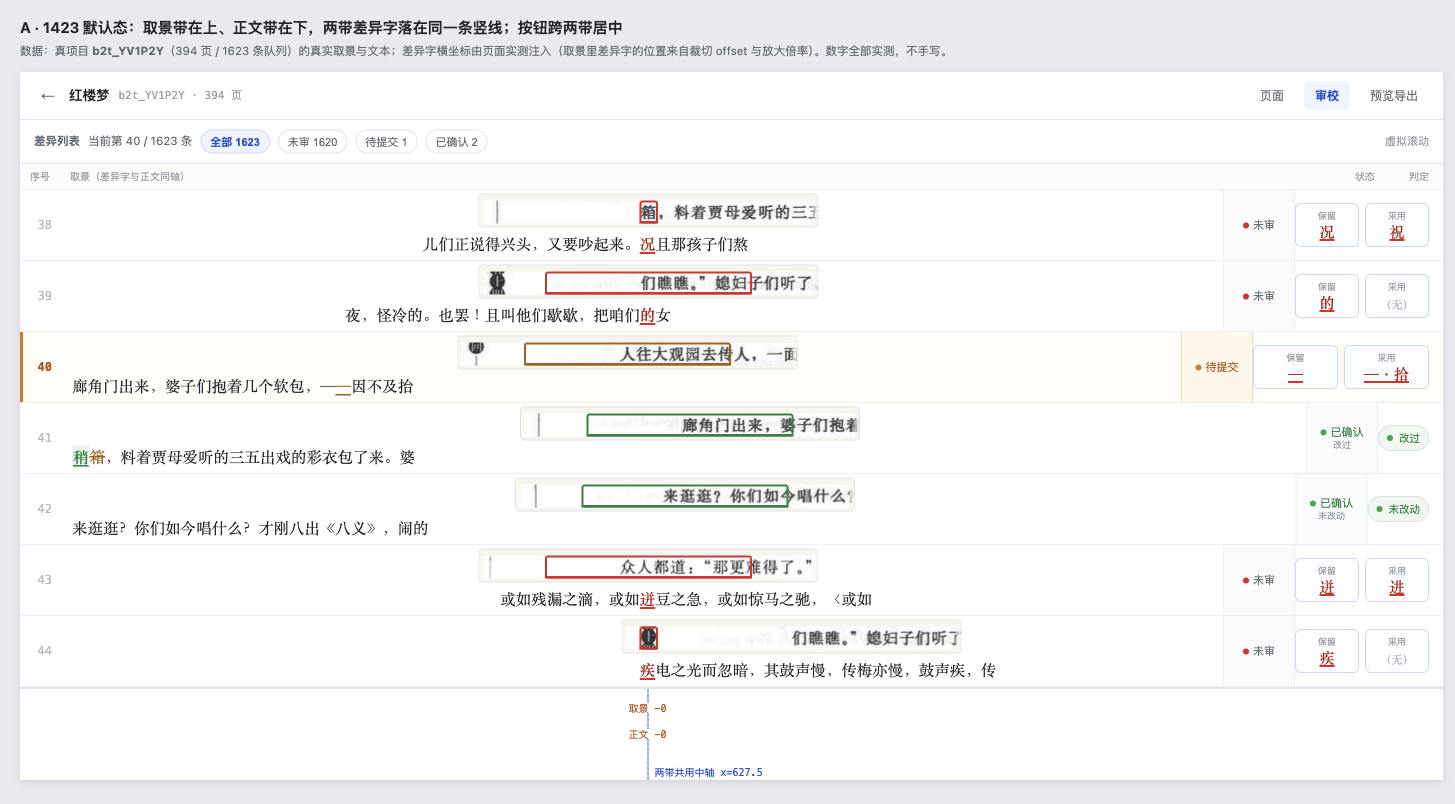
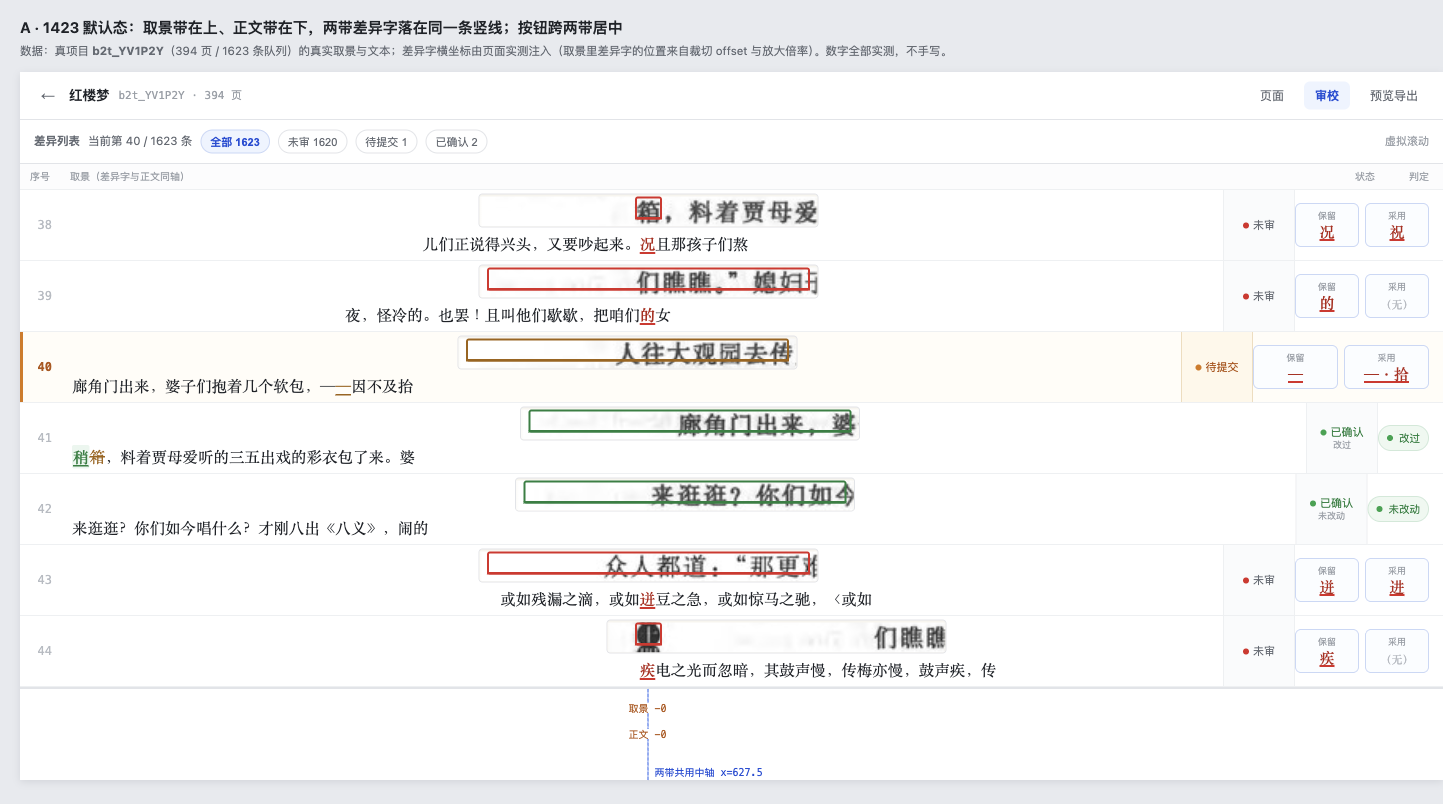
docs(ux): 取景字高改 22px（≥正文）、渐隐 7→3px、轴位写成实现契约；A/C/D 重出
- z = 22/源行高（0.786），取景字 22px 高于正文 15.5px；340 宽 15 字、628 档 10 字
- 渐隐 7px→3px，行首字不再被盖
- 实现契约置顶：--axis 默认 32%，shotLeft 走容器坐标、bgPosX 走源图坐标，半宽只扣一次
- §3.5 标注 E1/E2 为推算数、非 DOM 实测，实现以 ≤2px 为准
- A/C/D 重出：行高 71 / 106，两带中轴差 −1px

diff --git a/docs/ux/review-cat-stacked-mockup.html b/docs/ux/review-cat-stacked-mockup.html
@@ -35,7 +35,7 @@ h1{font-size:15px;margin:0 0 4px;font-weight:650}
 .row.cur .num{color:var(--warntext);font-weight:700}
 /* 取景 */
 .shot{position:relative;flex:none;border:1px solid var(--line);border-radius:4px;overflow:hidden;background:var(--paper)}
-.im{position:absolute;left:0;right:0;top:6px;height:23px;overflow:hidden}
+.im{position:absolute;left:0;right:0;top:2px;height:30px;overflow:hidden}
 .im .imgs{position:absolute;inset:0;background-repeat:no-repeat}
 .im .ln{position:absolute;height:0;border-bottom:2.5px solid var(--ul)}
 .im .cv{position:absolute;width:2px;background:var(--ul)}
@@ -44,9 +44,9 @@ h1{font-size:15px;margin:0 0 4px;font-weight:650}
 .im .blk.un{outline-color:#dc2626}.im .blk.un::after{border-color:var(--ul)}
 .im .blk.ed{outline-color:#a16207}.im .blk.ed::after{border-color:#a16207}
 .im .blk.ok{outline-color:#15803d}.im .blk.ok::after{border-color:#15803d}
-.shot::before,.shot::after{content:"";position:absolute;top:0;bottom:0;width:7px;z-index:2;pointer-events:none}
-.shot::before{left:0;background:linear-gradient(90deg,var(--paper),rgba(247,245,238,0))}
-.shot::after{right:0;background:linear-gradient(270deg,var(--paper),rgba(247,245,238,0))}
+.shot::before,.shot::after{content:"";position:absolute;top:0;bottom:0;width:3px;z-index:2;pointer-events:none}
+.shot::before{left:0;background:linear-gradient(90deg,rgba(247,245,238,.45),rgba(247,245,238,0))}
+.shot::after{right:0;background:linear-gradient(270deg,rgba(247,245,238,.45),rgba(247,245,238,0))}
 /* 正文 */
 .tx{min-width:0;font:15.5px/1.5 var(--book);white-space:nowrap;overflow:hidden;text-overflow:ellipsis;color:var(--text);display:flex;align-items:center;height:25px}
 .tx .d{color:var(--bad);font-weight:600;text-decoration:underline;text-decoration-color:var(--ul);text-decoration-thickness:2px;text-underline-offset:3px}
@@ -300,7 +300,7 @@ function layoutShot(band,id){
   const W=shot.clientWidth;
   const imH=shot.querySelector('.im').clientHeight;
   const imgs=shot.querySelector('.imgs');
-  const z=imH/46;                                // 行视觉高 46 源 px → 23 显示
+  const z=22/SRC.lineH;                          // 取景字高 22px（= 源行 28 → 22），不随取景带高变
   const cx=(r.whole? SRC.indent : r.dx)+r.lineW/2;
   const cy=r.y0+SRC.lineH/2;
   const want=cx-(W/2)/z;
@@ -308,7 +308,7 @@ function layoutShot(band,id){
   const over=cxx>want ? (cxx-want)*z : 0;        // 左裁到纸边后，差异字相对中轴偏右多少
   imgs.style.backgroundImage=`url(.tmp-stacked/${r.pg}.jpg)`;
   imgs.style.backgroundSize=`${SRC.w*z}px ${SRC.h*z}px`;
-  imgs.style.backgroundPosition=`${-cxx*z}px ${-Math.max(0,cy*z-imH/2)}px`;
+  imgs.style.backgroundPosition=`${-cxx*z}px ${-(cy*z-imH/2)}px`;
   const dLeft=(cx-cxx)*z;
   const ln=shot.querySelector('.ln'), blk=shot.querySelector('.blk');
   const st=(ST[id]||['un'])[0];
